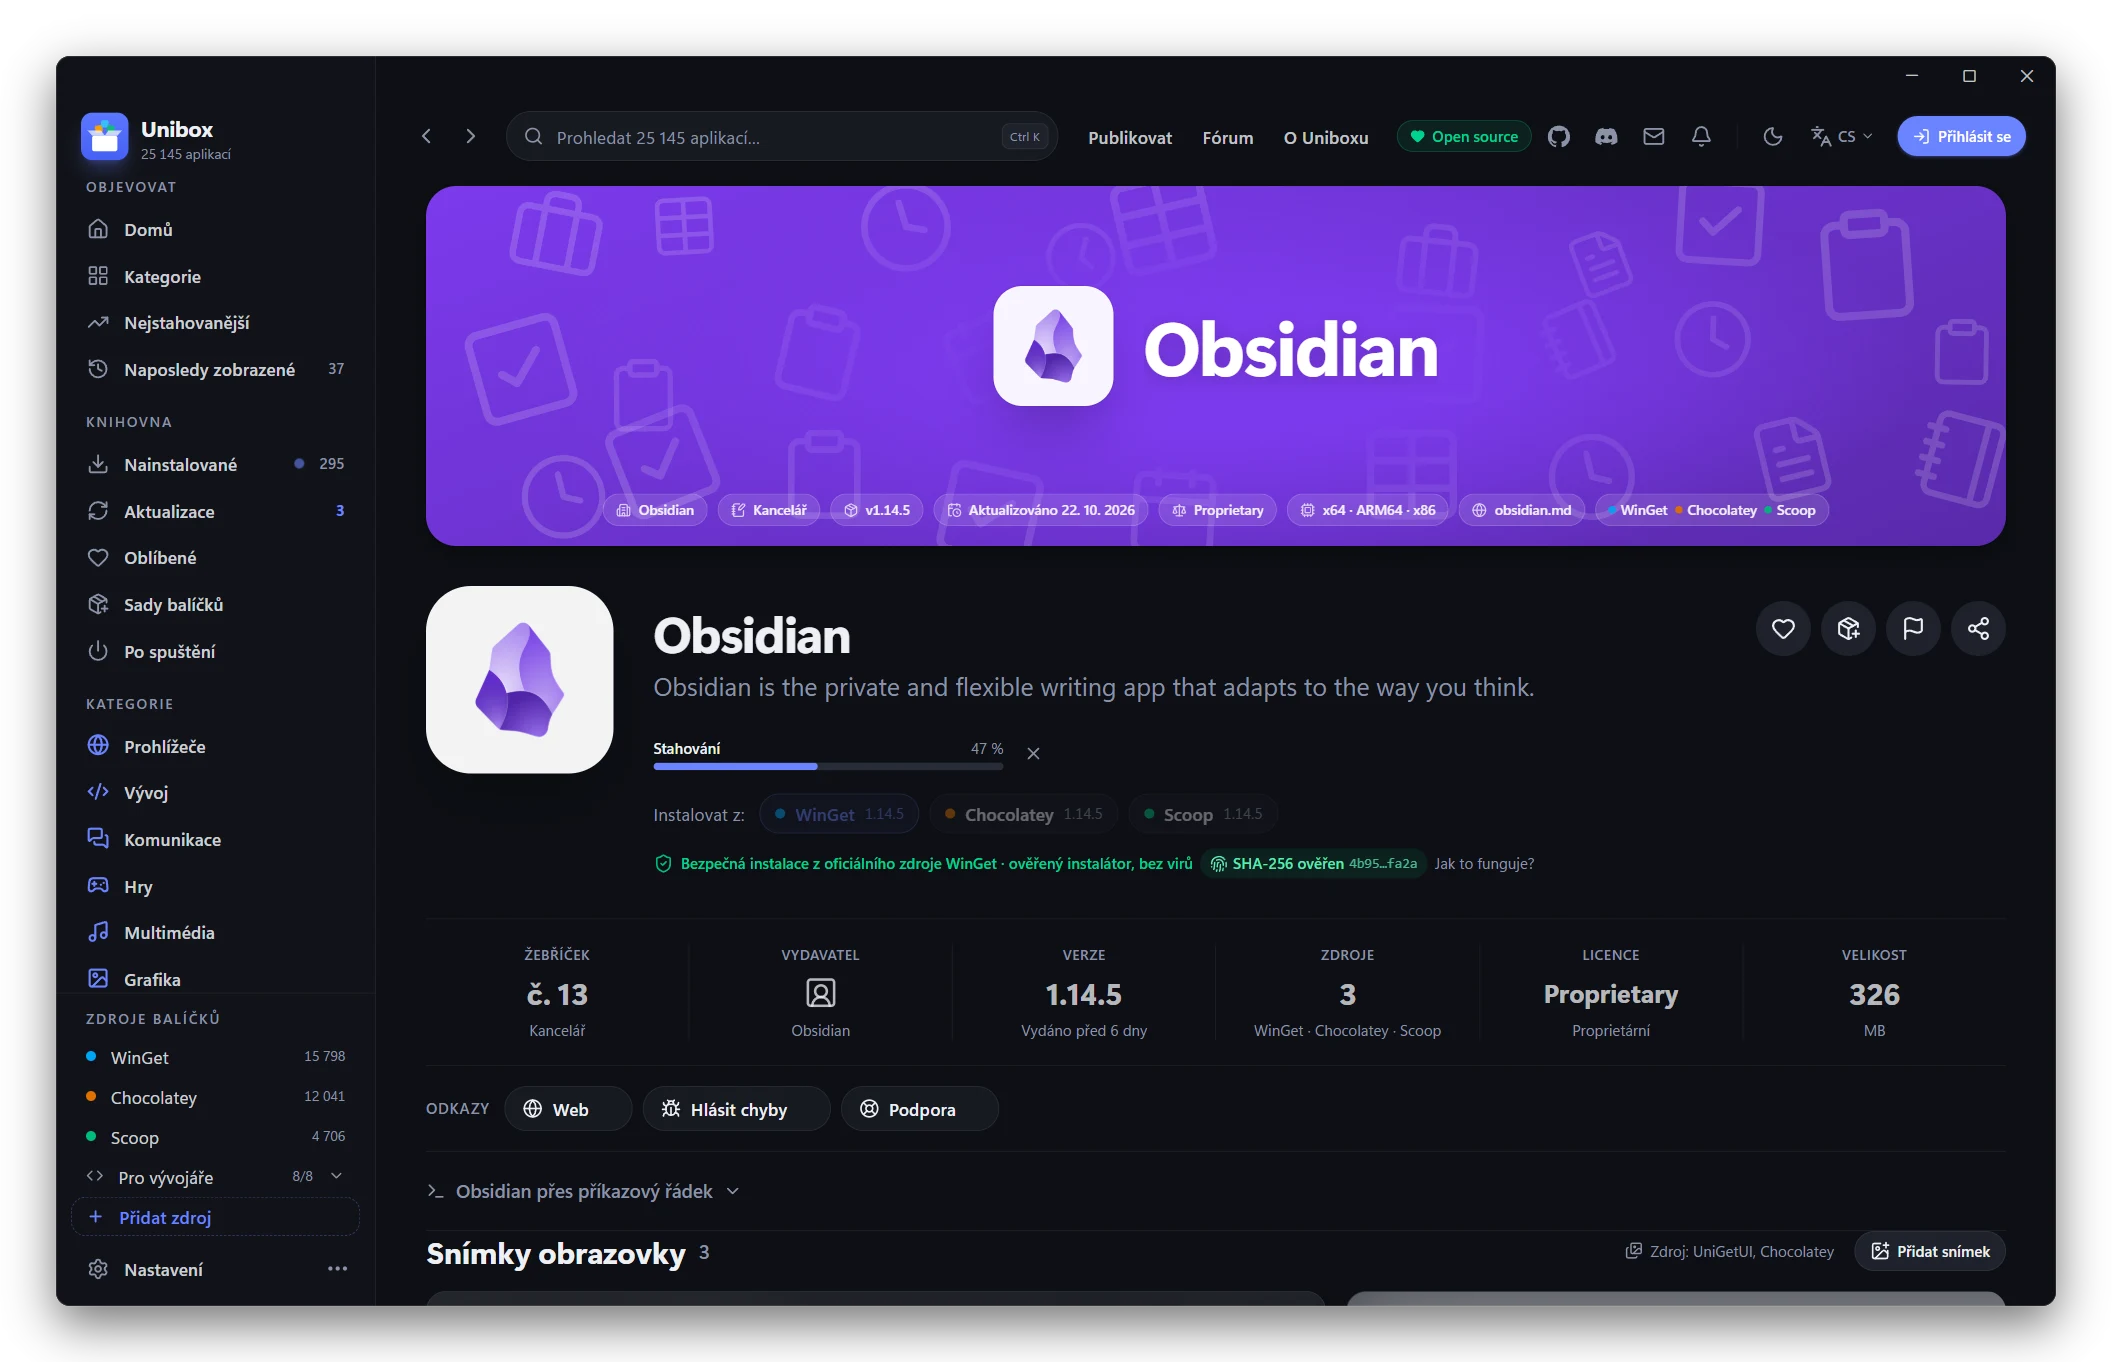
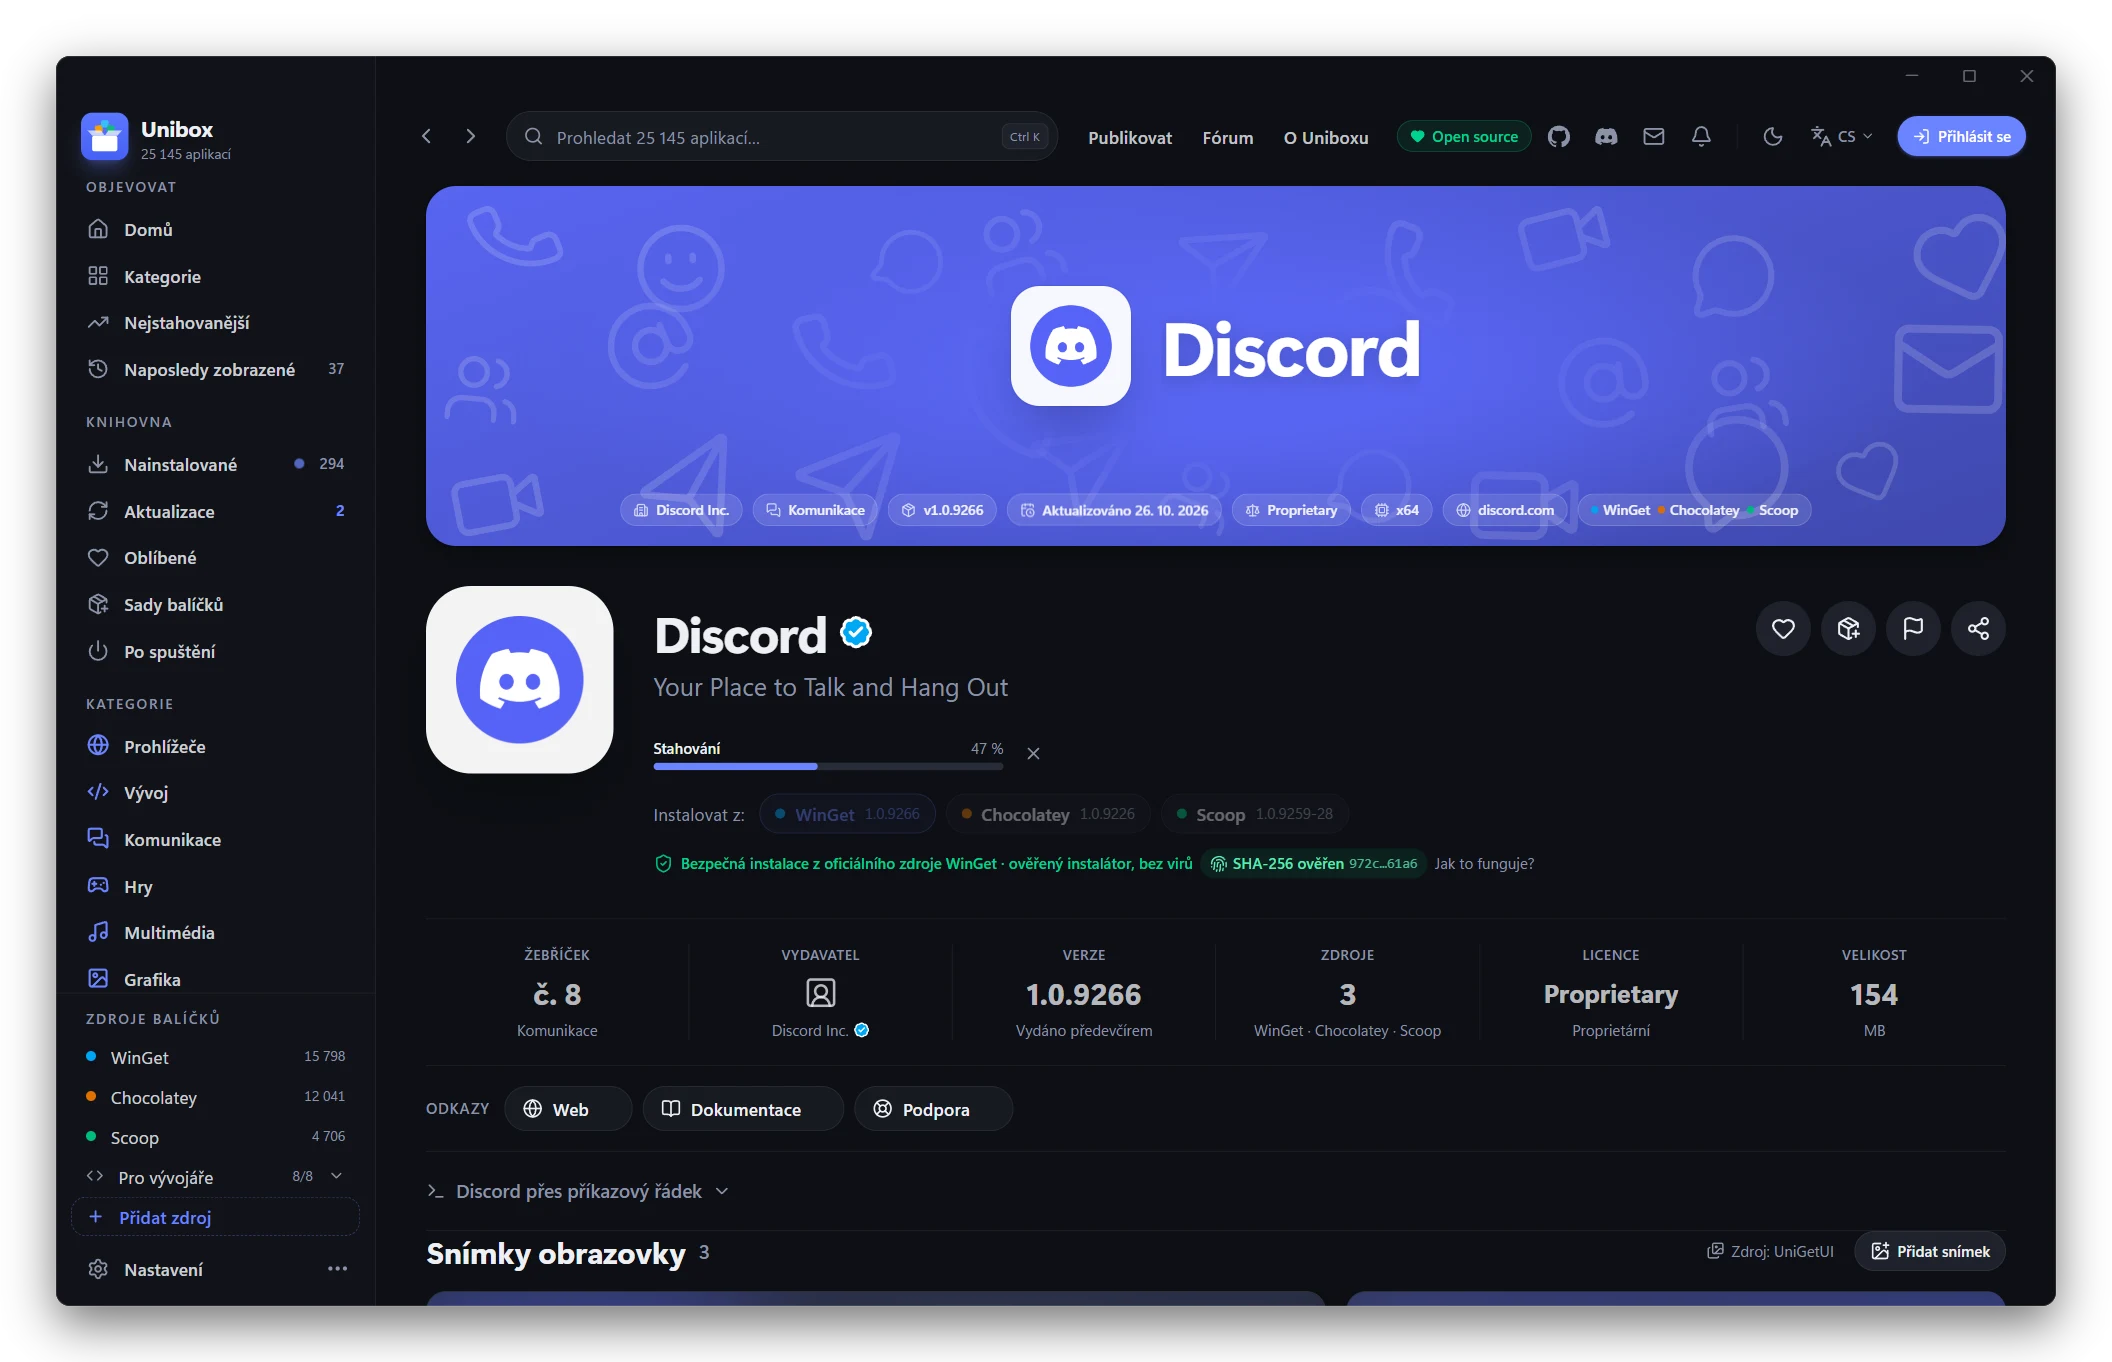
README: stahování na snímku detailu Discordu

diff --git a/README.md b/README.md
@@ -62,7 +62,7 @@ Install in one click from the source you choose, with download progress right on
 <p align="center">
 <picture>
   <source media="(prefers-color-scheme: dark)" srcset="assets/readme/stahovani-tmave.webp">
-  <img src="assets/readme/stahovani-svetle.webp" alt="The Unibox window with the Obsidian app page while downloading (47%), the source picker and SHA-256 verification">
+  <img src="assets/readme/stahovani-svetle.webp" alt="The Unibox window with the Discord app page while downloading (47%), the source picker and SHA-256 verification">
 </picture>
 </p>
 

diff --git a/README.cs.md b/README.cs.md
@@ -62,7 +62,7 @@ Instalace jedním kliknutím z vybraného zdroje, s průběhem stahování pří
 <p align="center">
 <picture>
   <source media="(prefers-color-scheme: dark)" srcset="assets/readme/cs/stahovani-tmave.webp">
-  <img src="assets/readme/cs/stahovani-svetle.webp" alt="Okno Uniboxu s detailem aplikace Obsidian během stahování (47 %), výběrem zdroje a ověřením SHA-256">
+  <img src="assets/readme/cs/stahovani-svetle.webp" alt="Okno Uniboxu s detailem aplikace Discord během stahování (47 %), výběrem zdroje a ověřením SHA-256">
 </picture>
 </p>
 
